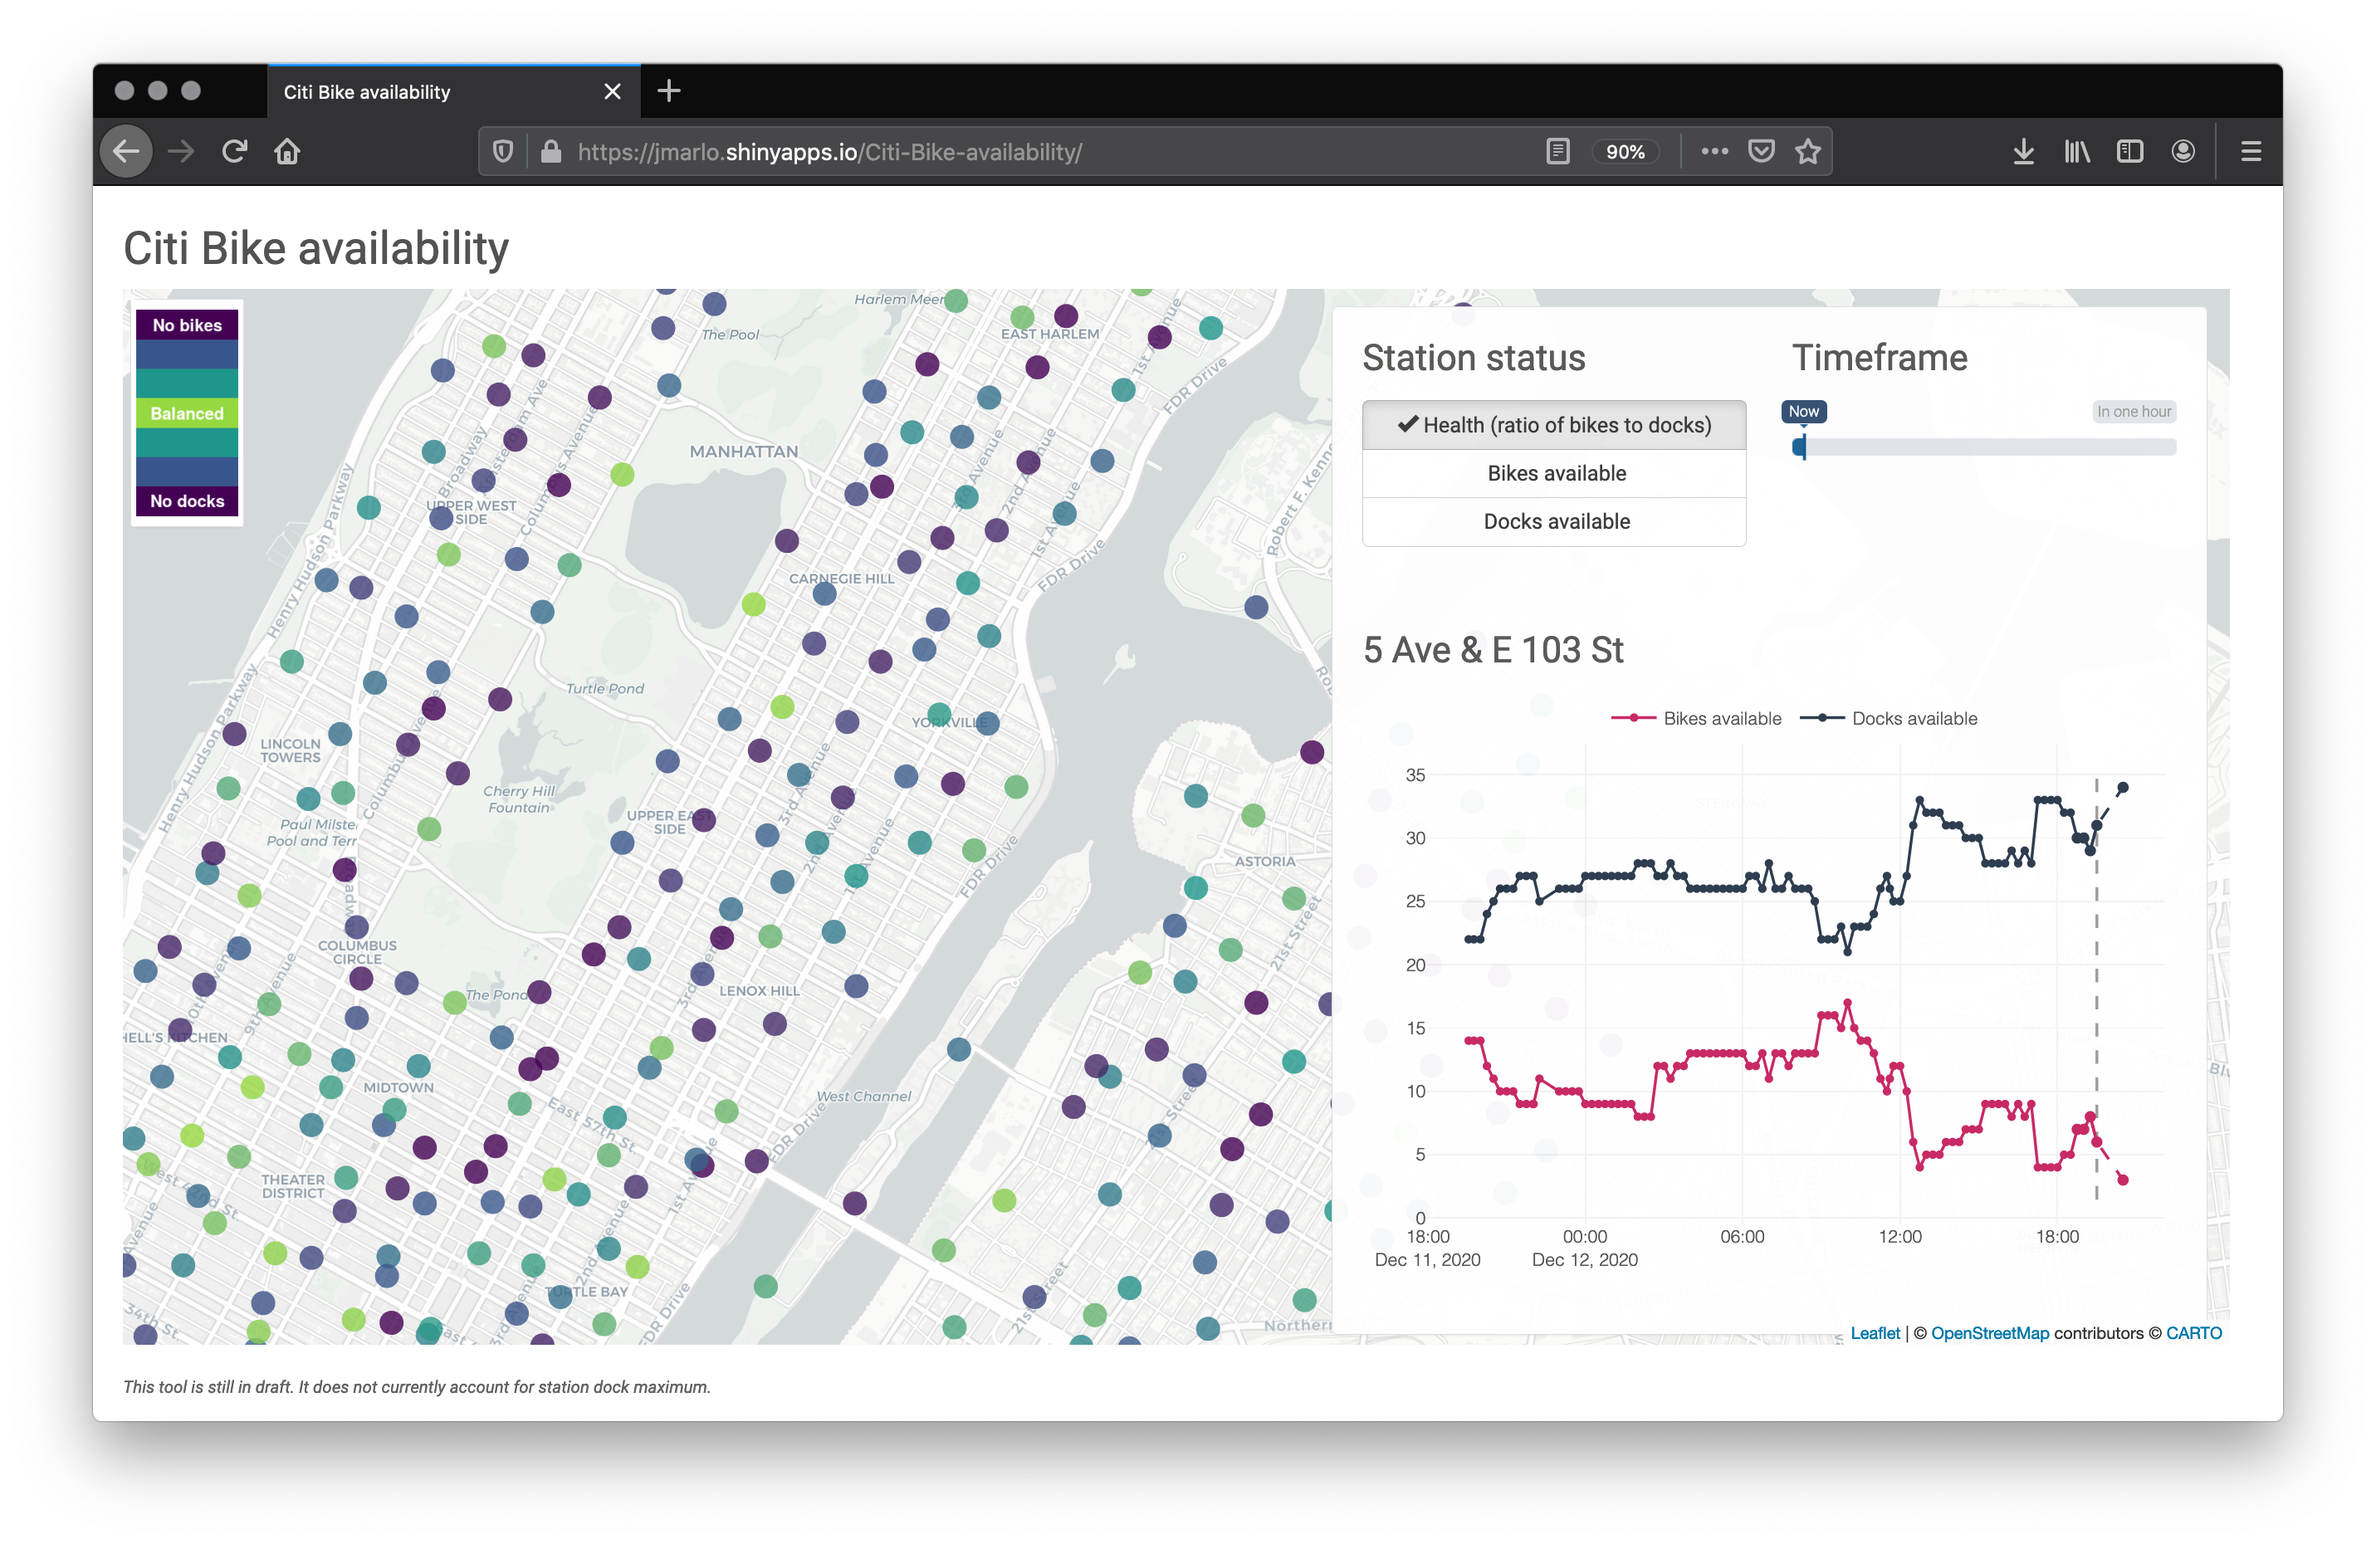
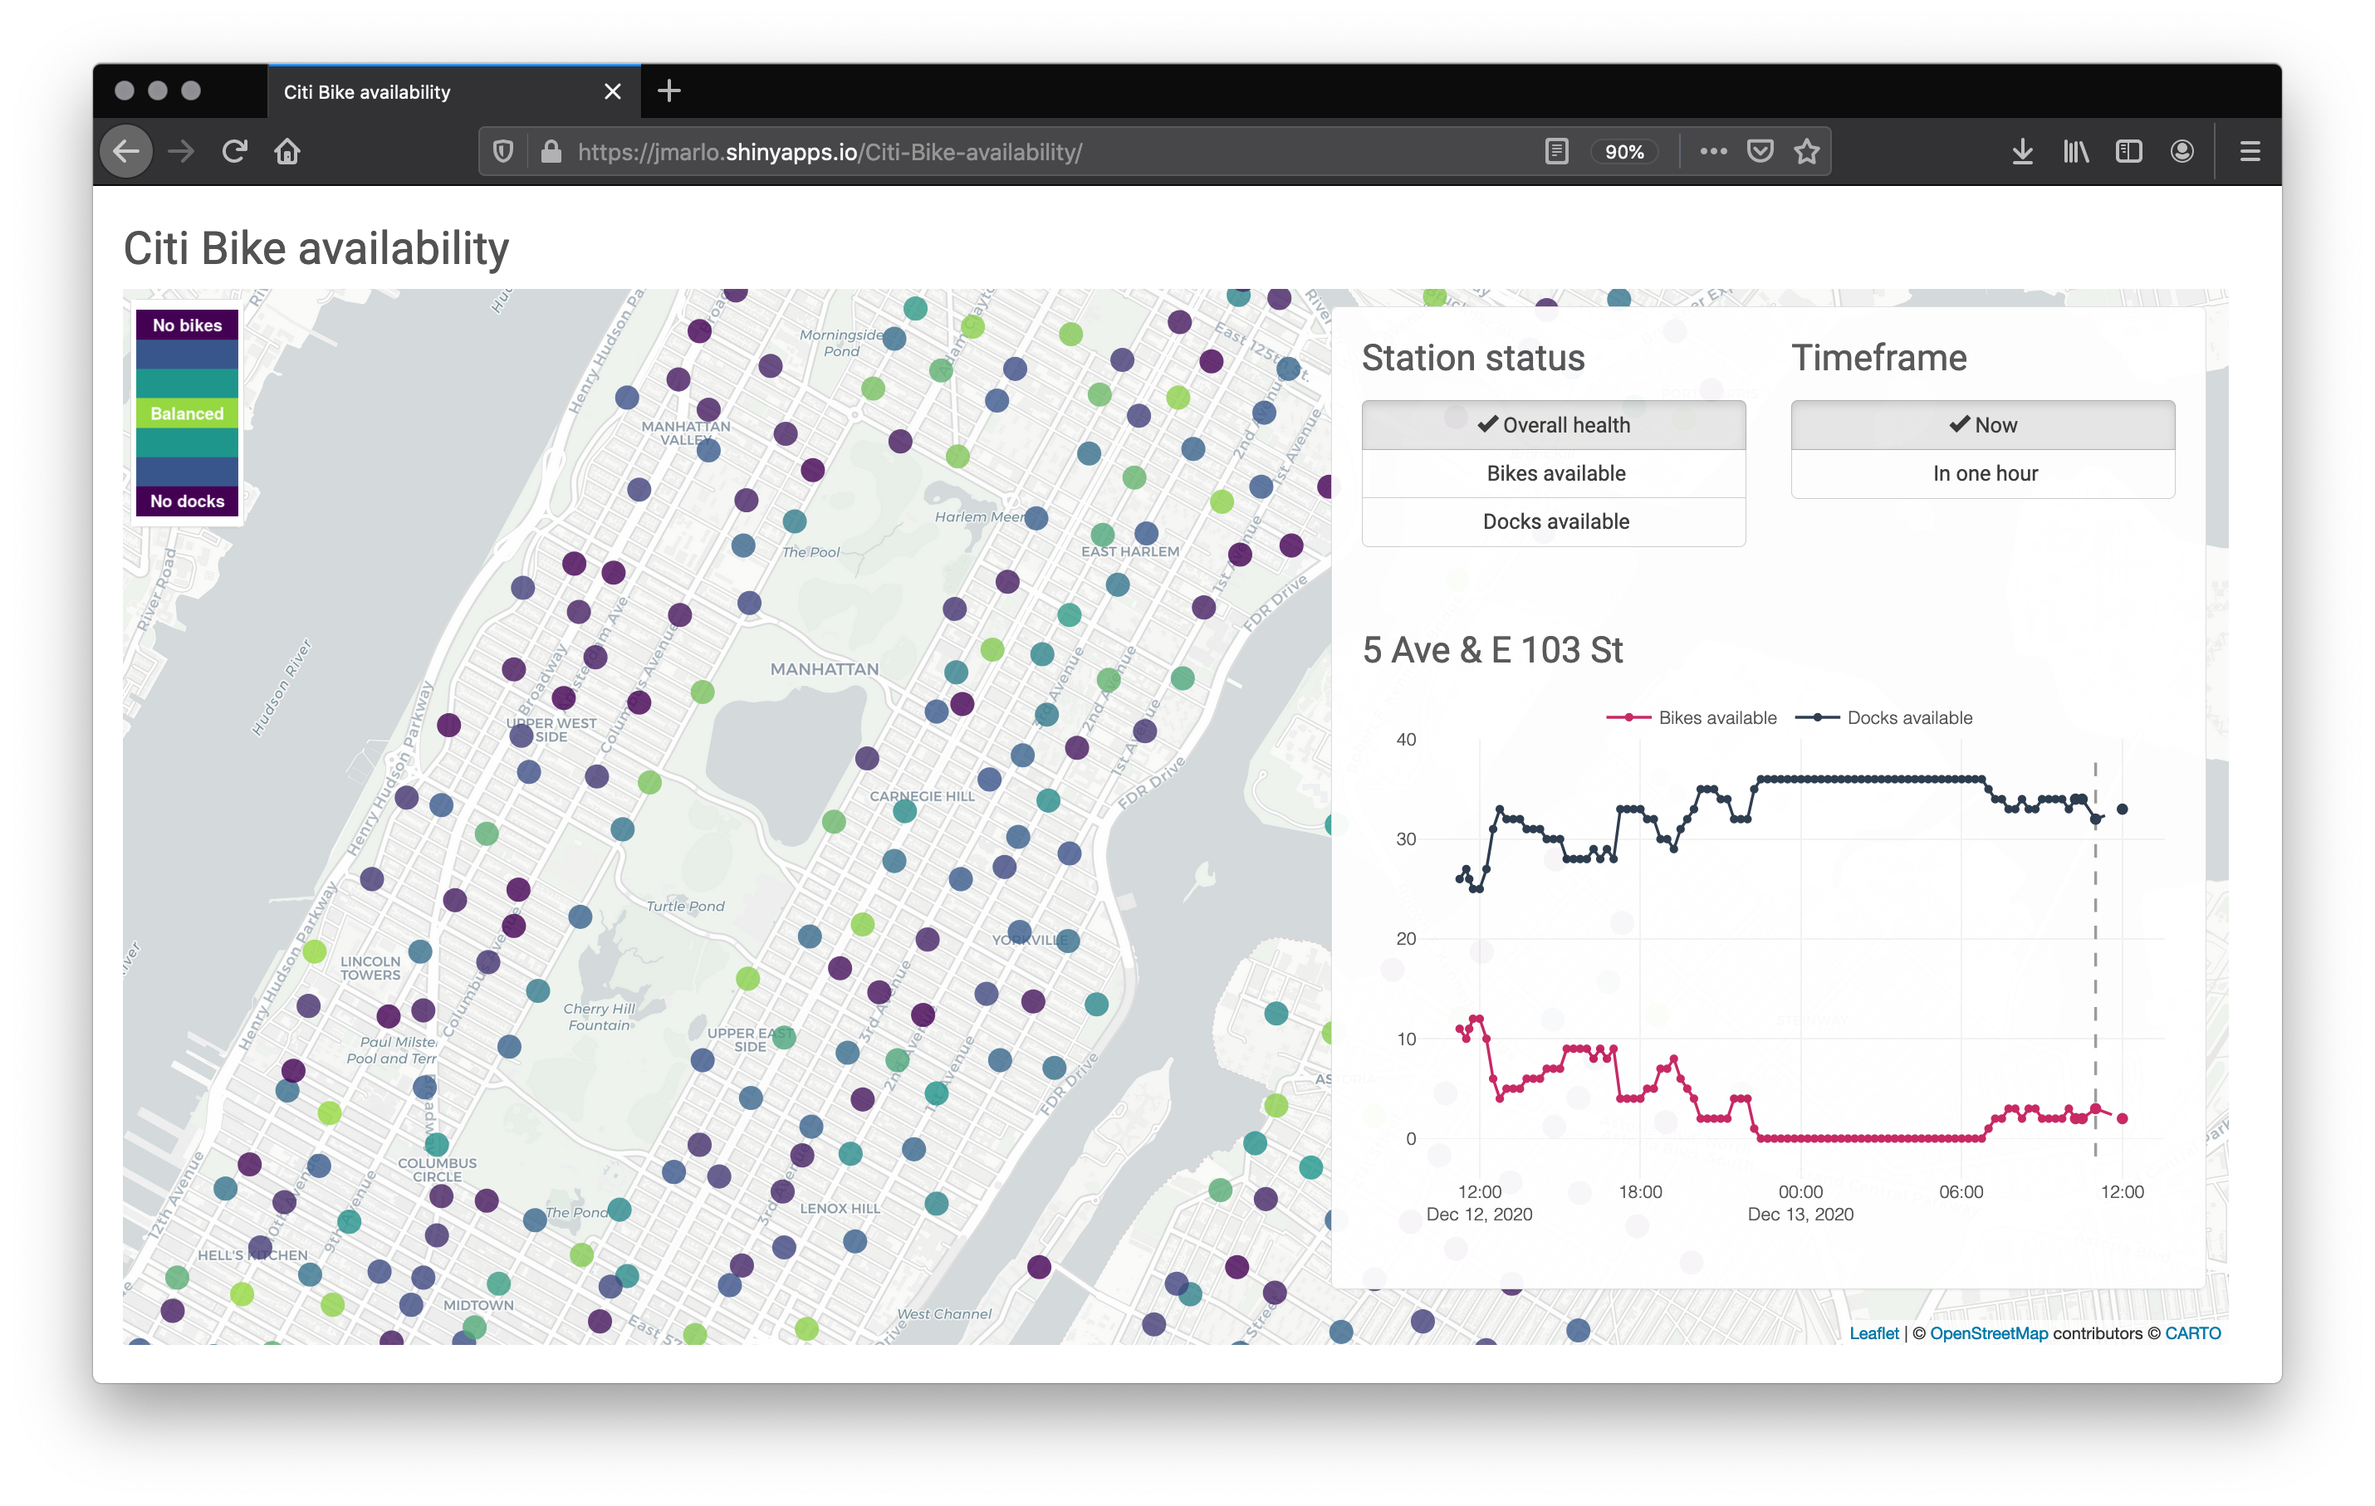
fixed CSS transition; incorporated station min max into preds

diff --git a/Citi-Bike-availability/www/js/check_mobile.js b/Citi-Bike-availability/www/js/check_mobile.js
@@ -1,4 +1,4 @@
 $(document).on('shiny:sessioninitialized', function (e) {
-  var mobile = window.matchMedia("only screen and (max-width: 768px)").matches;
+  var mobile = window.matchMedia("only screen and (max-width: 767px)").matches;
   Shiny.onInputChange('is_mobile_device', mobile);
 });

diff --git a/Citi-Bike-availability/www/custom_css.css b/Citi-Bike-availability/www/custom_css.css
@@ -41,7 +41,7 @@ hr {
   /* Fade out while not hovering */
   opacity: 0.65;
   zoom: 0.9;
-  transition: opacity 500ms 1s;
+  transition: opacity 25ms 100ms;
 }
 #controls:hover {
   /* Fade in while hovering */

diff --git a/Modeling/make_predictions.py b/Modeling/make_predictions.py
@@ -102,10 +102,17 @@ X = pd.get_dummies(X, columns=['zip_id', 'month', 'day', 'hour'])
 # make predictions
 preds_ends = xg_reg_end.predict(xgb.DMatrix(X)).round()
 
+# calculate station bike and dock maximums
+station_max = station_status.num_bikes_available + station_status.num_docks_available
+
+# calculate prediction for bikes and docks available, maxing at the station max
+bikes_available = np.maximum(0, np.minimum(station_max, data_for_preds_starts.num_bikes_available - preds_starts + preds_ends))
+docks_available = station_max - bikes_available
+
 # add preds to dataframe
 preds = pd.DataFrame(data={'station_id': data_for_preds_starts.station_id,
-                            'num_bikes_available': data_for_preds_starts.num_bikes_available - preds_starts + preds_ends,
-                            'num_docks_available': data_for_preds_starts.num_docks_available + preds_starts - preds_ends,
+                            'num_bikes_available': bikes_available,
+                            'num_docks_available': docks_available,
                             'datetime': datetime + dt.timedelta(hours=1),
                             'is_pred': 1})
 

diff --git a/README.md b/README.md
@@ -1,6 +1,8 @@
 # Predicting Citi Bike stock so you know before you ride
 
-Real-time prediction of Citi Bike availability for each station. Still in draft but live [here](https://jmarlo.shinyapps.io/Citi-Bike-availability/).
+Real-time prediction of Citi Bike availability for each station. Live [here](https://jmarlo.shinyapps.io/Citi-Bike-availability/).
+
+See blog post: [marlo.works/citi-bike-availability](https://www.marlo.works/posts/citi-bike-availability/)
 
 <br>
 
